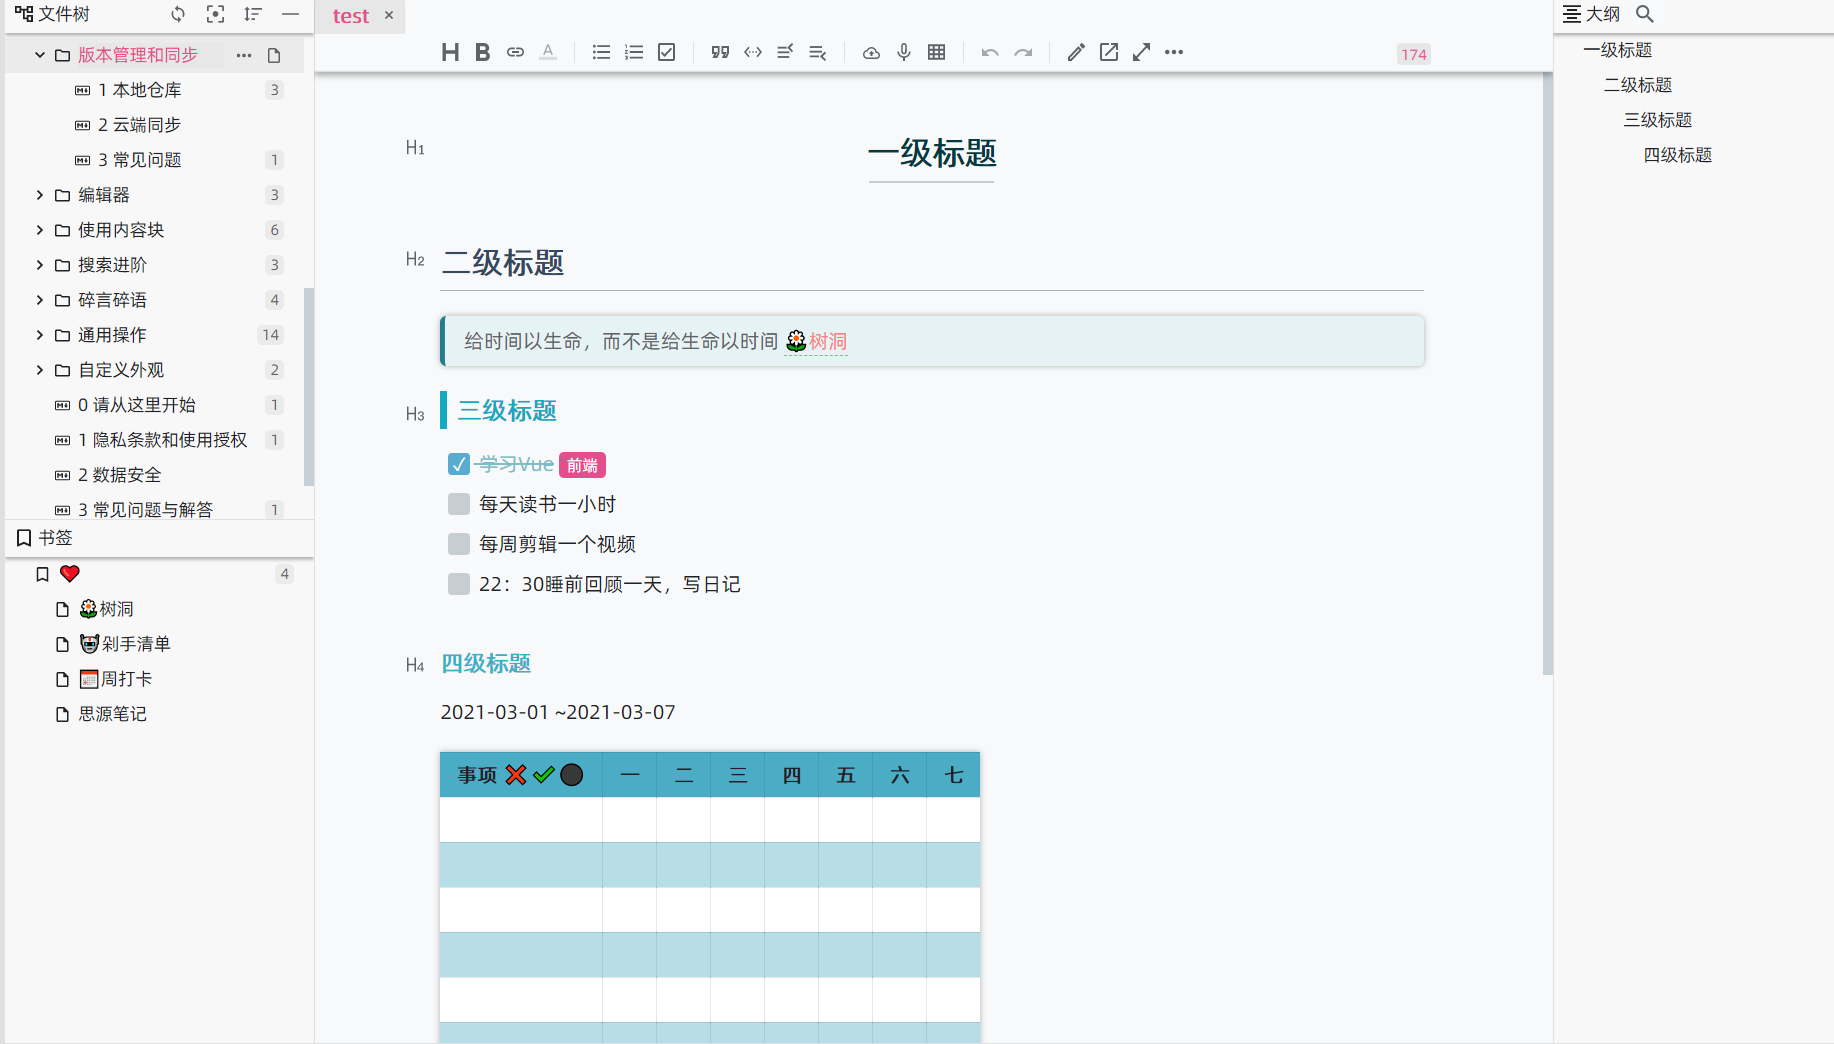
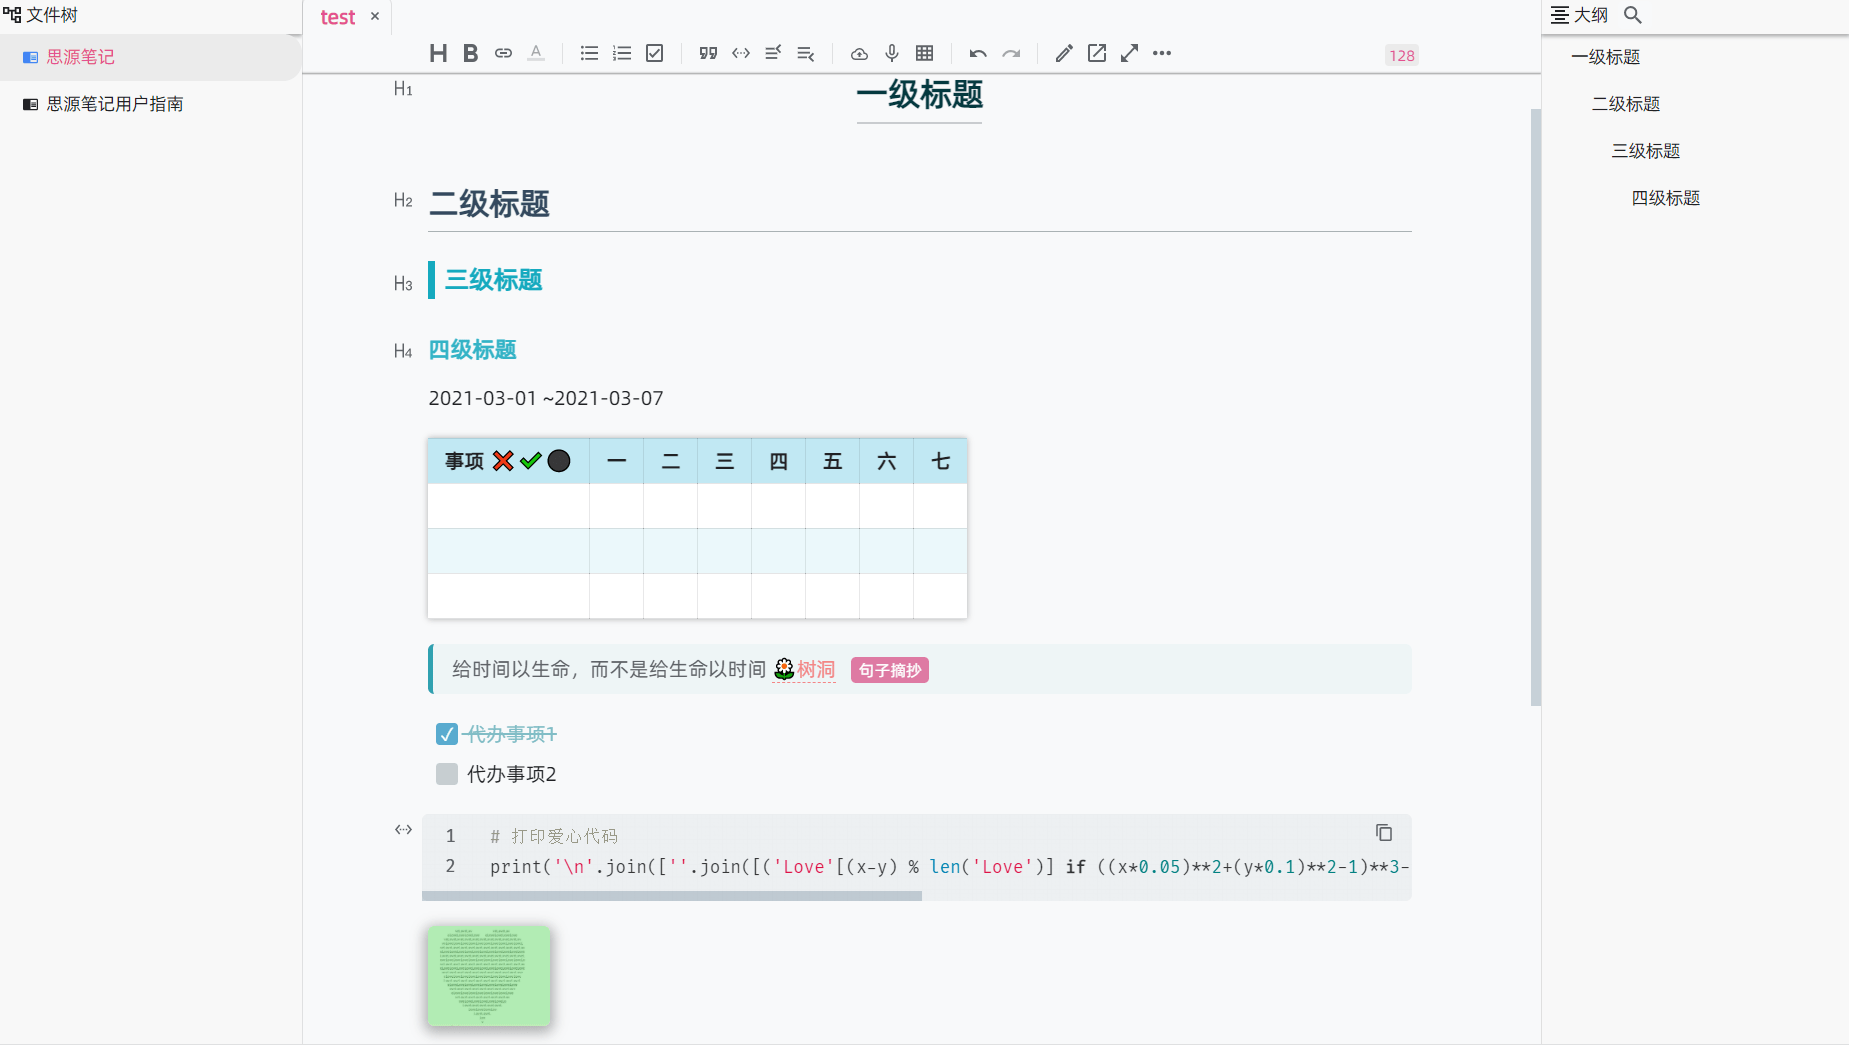
v0.1.5

diff --git a/theme.css b/theme.css
@@ -57,9 +57,9 @@
     --b3-text-border-color: rgb(170, 178, 180);
     /* 表格 */
     --b3-table-border-color: rgba(26, 26, 26, 0.1);
-    --b3-table-th-color: #5ec9e7;
+    --b3-table-th-color: #5ec9e75b;
     --b3-table-trn-color: #ffffff;
-    --b3-table-tr2n-color: #b7dee8;
+    --b3-table-tr2n-color: #dbf6fd73;
     /* 卡片背景 */
     --b3-card-error-color: rgb(97, 26, 21);
     --b3-card-error-background: rgb(253, 236, 234);
@@ -277,9 +277,9 @@ blockquote {
 }
 
 /* 超链接hover鼠标样式改变 */
-.vditor-ir__link:hover {
-    cursor: pointer;
-    color: rgb(184, 93, 57);
+.vditor-ir__node:hover .vditor-ir__link {
+      cursor: pointer;
+    color: rgb(184, 57, 135);
     text-decoration: underline;
 }
 /* 超链接样式 */
@@ -391,12 +391,13 @@ blockquote {
 
 .vditor-reset h3 {
     font-size: 20px;
-    color: #15aabf;
+    color: rgb(21, 170, 191);
     line-height: 20px;
-    border-left: 6px solid #15aabf;
-    /* border-bottom: 1px solid var(--b3-text-border-color) !important; */
+    border-left: 6px solid rgb(21, 170, 191);
     text-align: justify;
-    padding: 5px 0 5px 7px;
+    padding: 5px 0px 5px 7px;
+    margin-top: 23px;
+    margin-bottom: 5px;
 }
 
 .vditor-reset h4 {
@@ -547,7 +548,7 @@ div[data-type='navigation'] .b3-list-item--focus,
 .vditor-reset img {
     max-width: 100%;
     cursor: pointer;
-    box-shadow: 0px 3px 10px 3px rgb(6 6 6 / 30%);
+    box-shadow: 0px 2px 5px 2px rgb(6 6 6 / 30%);
     border-radius: 5px;
 }
 /* 文件树页签工具栏样式 */
@@ -556,8 +557,8 @@ div[data-type='navigation'] .b3-list-item--focus,
     background-color: var(--b3-theme-surface);
 }
 /* 设置的关闭按钮 */
-.fn__a {
-    color: #d3efec;
+.b3-dialog__container .b3-dialog__close  {
+    color: #ffffff;
     cursor: pointer;
 }
 .b3-dialog__container svg:hover {

diff --git a/Readme.md b/Readme.md
@@ -1,5 +1,12 @@
 # 思源主题: mixture(light)
 ![preview](preview.png)
+本主题主颜色为青色，主字体为阿里巴巴普惠体，代码字体为Fira Code，浅色主题主要从Mixture Dark暗色主题修改而来，但感觉青出于蓝而胜于蓝，更好看哇！
+希望能逐渐做出简洁美观的效果呀！
+
+## v0.1.5
+- 修复从edge复制的超链接，形如[思源笔记更新日志(ld246.com)](https://ld246.com/tag/siyuan-announcement)，分多块高亮的问题
+- 将表格颜色减淡
+- 将图片阴影调小
 ## v0.1.4
 - 去除选中标签页的背景色
 - 仿照Lavender设置界面动效，更改设置的关闭按钮颜色和hover背景
@@ -9,4 +16,4 @@
 - 更改弹出菜单样式
 - 更改编辑区上方工具栏阴影
 ## v0.1.0
-将Mixture Dark 的样式照搬并进行修改
+- 将Mixture Dark 暗色主题的样式照搬并进行修改
